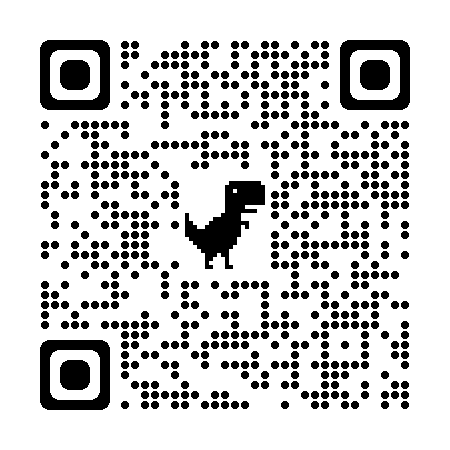
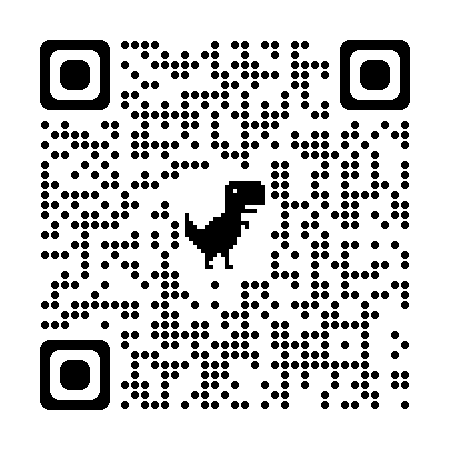
Insercao de qrCode

diff --git a/index.html b/index.html
@@ -51,7 +51,7 @@
     <main>
         <div class="Container">
             <h1>HTML5 e CSS3</h1>
-            <h2>Você faz. Você vê. Você Aprende</h2>
+            <h2>Você faz. Você vê. Você Aprende.</h2>
             <!-- Insercao de link, o "blank" faz com que a pagina sera carregada numa outra aba -->
             <a href="https://www.youtube.com/@edilsonruach" target="_blank" class="Botao">Saiba+</a>
         </div>
@@ -110,7 +110,7 @@
             </div>
 
             <div id="qrCode">
-
+                <img src="img/qrcode.png" alt="qrcode">
 
             </div>
         </div>
@@ -120,7 +120,7 @@
     <!-- Conteudo -->
     <section id="conteudo">
         <div class="Container">
-            <h2>Conteudo</h2>
+            <h2>Conteúdo</h2>
             <h3>HTML5</h3>
             <h3>BOX MODEL CSS3</h3>
             <h3>BREAKPOINTS</h3>
